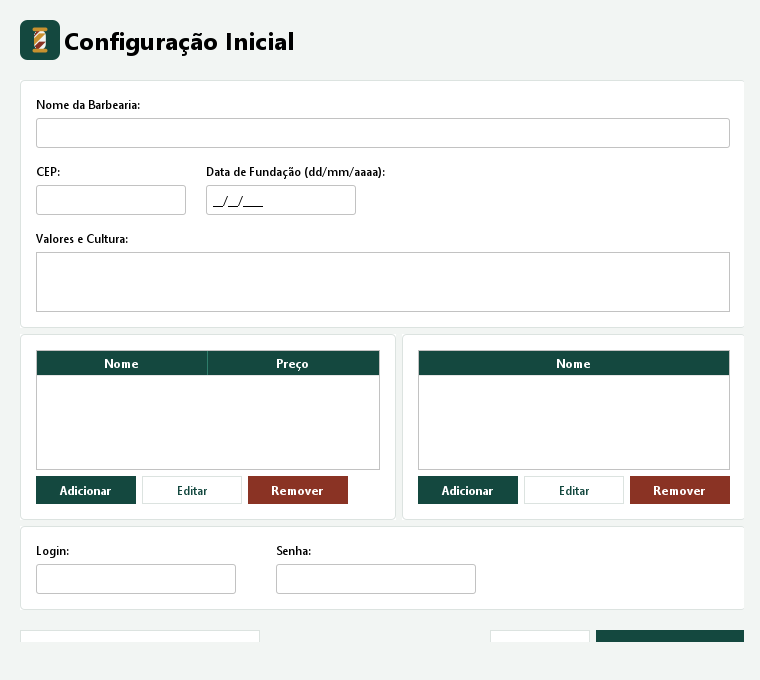
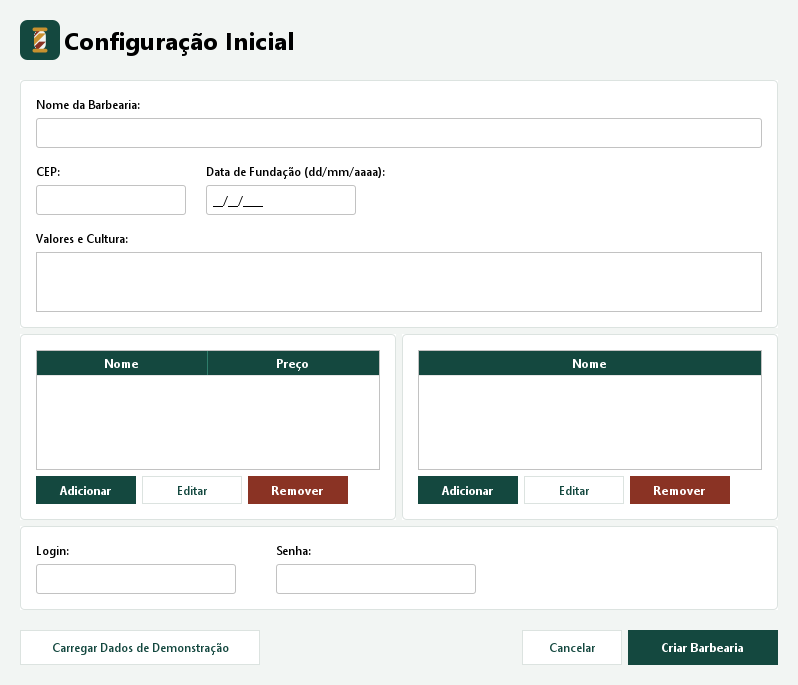
fix(desktop): centralizar icone e ajustar layouts

diff --git a/desktop/src/main/java/br/com/barbershop/ui/support/UIUtil.java b/desktop/src/main/java/br/com/barbershop/ui/support/UIUtil.java
@@ -14,8 +14,6 @@ import java.awt.RenderingHints;
 import java.awt.Taskbar;
 import java.awt.Window;
 import java.awt.image.BufferedImage;
-import java.io.IOException;
-import java.io.InputStream;
 import java.net.URI;
 import java.text.ParseException;
 import java.util.ArrayList;
@@ -151,10 +149,15 @@ public class UIUtil {
     public static void aplicarEstiloCartao(JPanel painel) {
         if (painel == null) return;
         painel.setBackground(COLOR_BRANCO);
-        Border borda = new BordaArredondada(COLOR_NEBLINA, 8);
+        Border bordaOriginal = painel.getBorder();
+        Border bordaCartao = new BordaArredondada(COLOR_NEBLINA, 8);
+        Border respiro = BorderFactory.createEmptyBorder(10, 10, 10, 10);
+        Border conteudo = bordaOriginal != null
+                ? BorderFactory.createCompoundBorder(bordaOriginal, respiro)
+                : respiro;
         painel.setBorder(BorderFactory.createCompoundBorder(
-                borda,
-                BorderFactory.createEmptyBorder(10, 10, 10, 10)));
+                bordaCartao,
+                conteudo));
     }
 
     public static FlatSVGIcon carregarSvg(String caminho, int width, int height) {
@@ -183,16 +186,11 @@ public class UIUtil {
     }
 
     /**
-     * Ícone do app (src/main/resources/icon.ico), aplicado em toda janela.
+     * Ícone do app, derivado da mesma logo SVG centralizada em web/img.
      */
     public static void aplicarIcone(Window janela) {
         if (!iconeCarregado) {
-            try (InputStream in = UIUtil.class.getClassLoader().getResourceAsStream("icon.ico")) {
-                BufferedImage original = in != null ? IcoDecoder.lerMaiorFrame(in) : null;
-                iconesApp = original != null ? gerarTamanhosDeIcone(original) : null;
-            } catch (IOException ignored) {
-                iconesApp = null;
-            }
+            iconesApp = gerarIconesDoSvg("img/logo.svg");
             iconeCarregado = true;
             aplicarIconeNaTaskbar(iconesApp == null || iconesApp.isEmpty() ? null : iconesApp.get(iconesApp.size() - 1));
         }
@@ -201,17 +199,19 @@ public class UIUtil {
         }
     }
 
-    private static List<Image> gerarTamanhosDeIcone(BufferedImage original) {
+    private static List<Image> gerarIconesDoSvg(String caminho) {
         List<Image> resultado = new ArrayList<>();
         for (int tamanho : TAMANHOS_ICONE) {
-            BufferedImage escalado = new BufferedImage(tamanho, tamanho, BufferedImage.TYPE_INT_ARGB);
-            Graphics2D g2 = escalado.createGraphics();
-            g2.setRenderingHint(RenderingHints.KEY_INTERPOLATION, RenderingHints.VALUE_INTERPOLATION_BICUBIC);
-            g2.setRenderingHint(RenderingHints.KEY_RENDERING, RenderingHints.VALUE_RENDER_QUALITY);
+            FlatSVGIcon svg = carregarSvg(caminho, tamanho, tamanho);
+            if (svg == null) {
+                return null;
+            }
+            BufferedImage imagem = new BufferedImage(tamanho, tamanho, BufferedImage.TYPE_INT_ARGB);
+            Graphics2D g2 = imagem.createGraphics();
             g2.setRenderingHint(RenderingHints.KEY_ANTIALIASING, RenderingHints.VALUE_ANTIALIAS_ON);
-            g2.drawImage(original, 0, 0, tamanho, tamanho, null);
+            svg.paintIcon(null, g2, 0, 0);
             g2.dispose();
-            resultado.add(escalado);
+            resultado.add(imagem);
         }
         return resultado;
     }

diff --git a/desktop/src/main/java/br/com/barbershop/ui/TelaHome.java b/desktop/src/main/java/br/com/barbershop/ui/TelaHome.java
@@ -90,15 +90,16 @@ public class TelaHome extends javax.swing.JFrame {
         pnlSideMenu.setBackground(UIUtil.COLOR_VERDE_CADEIRA);
         UIUtil.aplicarLogo(lblLogo, 64, 64);
         lblLogo.setBounds(0, 25, 200, 70);
-        btnHome.setBounds(10, 125, 180, 40);
-        btnMinhaBarbearia.setBounds(10, 175, 180, 40);
-        btnHistorico.setBounds(10, 225, 180, 40);
-        btnRelatorios.setBounds(10, 275, 180, 40);
+        btnHome.setBounds(10, 120, 180, 40);
+        btnMinhaBarbearia.setBounds(10, 170, 180, 40);
+        btnHistorico.setBounds(10, 220, 180, 40);
+        btnRelatorios.setBounds(10, 270, 180, 40);
+        btnSair.setBounds(10, 510, 180, 40);
 
-        UIUtil.aplicarEstiloCartao(pnlHome);
-        UIUtil.aplicarEstiloCartao(pnlMinhaBarbearia);
-        UIUtil.aplicarEstiloCartao(pnlHistorico);
-        UIUtil.aplicarEstiloCartao(pnlRelatorios);
+        pnlHome.setBackground(UIUtil.COLOR_PORCELANA);
+        pnlMinhaBarbearia.setBackground(UIUtil.COLOR_PORCELANA);
+        pnlHistorico.setBackground(UIUtil.COLOR_PORCELANA);
+        pnlRelatorios.setBackground(UIUtil.COLOR_PORCELANA);
         UIUtil.aplicarEstiloCartao(pnlDadosGerais);
         UIUtil.aplicarEstiloCartao(pnlGerenciarServicos);
         UIUtil.aplicarEstiloCartao(pnlGerenciarBarbeiros);

diff --git a/desktop/src/main/java/br/com/barbershop/ui/TelaLogin.java b/desktop/src/main/java/br/com/barbershop/ui/TelaLogin.java
@@ -25,6 +25,7 @@ public class TelaLogin extends javax.swing.JFrame {
         UIUtil.estilizarBotaoPrimario(btnEntrar);
         UIUtil.aplicarIcone(this);
         this.sessionService = new FabricaDeServicos().criarSessionService();
+        pack();
         setLocationRelativeTo(null);
     }
 

diff --git a/desktop/src/main/java/br/com/barbershop/ui/TelaCadastroInicial.java b/desktop/src/main/java/br/com/barbershop/ui/TelaCadastroInicial.java
@@ -34,6 +34,7 @@ public class TelaCadastroInicial extends javax.swing.JFrame {
         initComponents();
         aplicarEstilos();
         UIUtil.aplicarIcone(this);
+        pack();
         setLocationRelativeTo(null);
     }
 

diff --git a/README.md b/README.md
@@ -170,8 +170,7 @@ barber-shop-suite/
 │       │   │   ├── controller/         # Controladores de tela
 │       │   │   └── support/            # Utilitários de UI (ícones, renderizadores de tabela)
 │       └── resources/
-│           ├── logback.xml             # Configuração de logging
-│           └── icon.ico                # Ícone nativo do aplicativo
+│           └── logback.xml             # Configuração de logging
 │
 ├── web/                                # [MÓDULO 3] Front-end Web independente (HTML, CSS e JavaScript puros)
 │   ├── README.md                       # Documentação própria do módulo web
